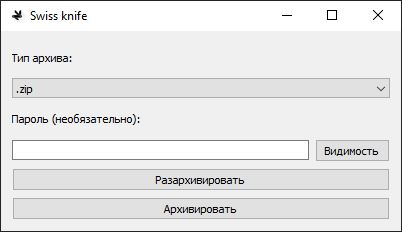
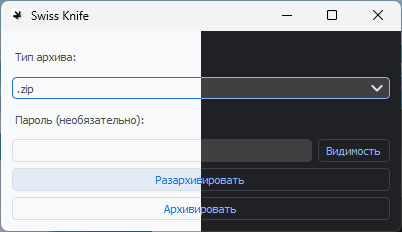
добавлены скриншоты для windows

diff --git a/media/split_and_union.py b/media/split_and_union.py
@@ -16,6 +16,10 @@ class ImageProcessor:
             self.img = 'media/screenshots/screenshot_mac.png'
             self.light_img = 'media/screenshots/screenshot_mac_light.png'
             self.dark_img = 'media/screenshots/screenshot_mac_dark.png'
+        elif Platform.OS == Platform.Windows:
+            self.img = 'media/screenshots/screenshot_win.png'
+            self.light_img = 'media/screenshots/screenshot_win_light.png'
+            self.dark_img = 'media/screenshots/screenshot_win_dark.png'
 
     def add_suffix_to_filename(self, file_path: str, suffix: str) -> str:
         # Разделите имя файла на путь, имя и расширение
